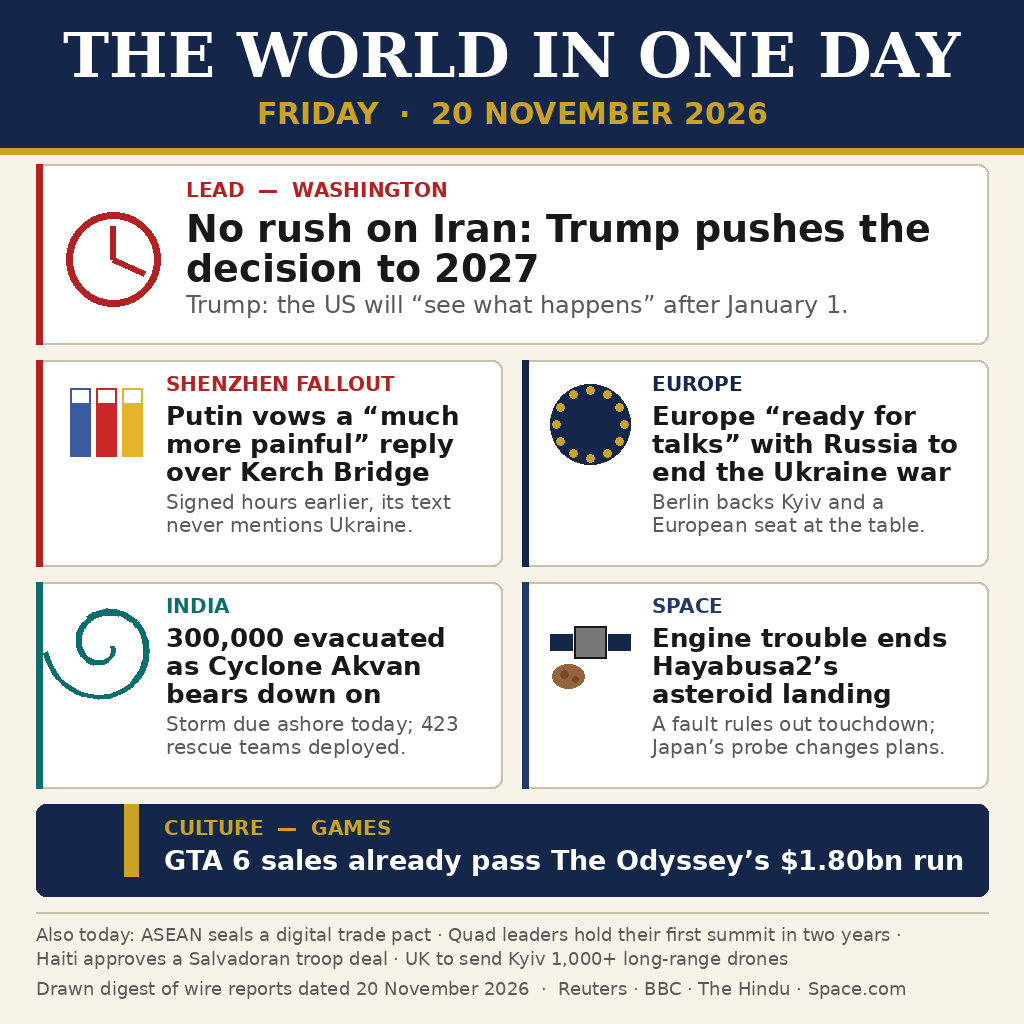
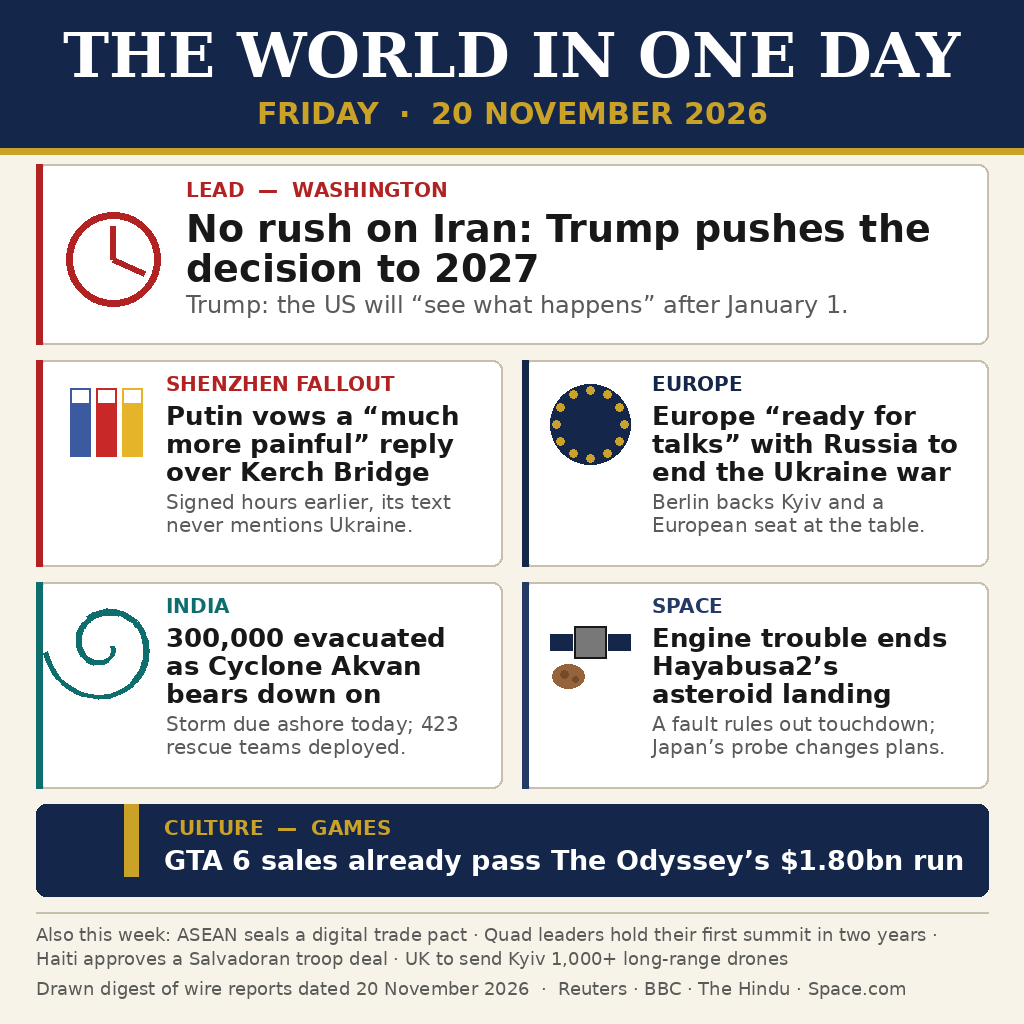
Fix footer wording and date claims after source checks
Footer items (ASEAN pact, Quad summit, Haiti deal) are from
14-17 Nov, so label them 'Also this week', not 'Also today'.
README: the six stories are the week's wires led by Friday's news,
not all first reported on the 20th.

Changed region(s): [[0.0938, 0.9062, 0.9062, 0.9375]]

diff --git a/README.md b/README.md
@@ -8,7 +8,7 @@ One image summing up Friday 20 November 2026 in world news: Trump putting the Ir
 
 ## What's in the picture
 
-A front page dated Friday 20 November 2026, six stories first reported that day:
+A front page dated Friday 20 November 2026, six stories from the week's wires, led by Friday's news:
 
 1. **Lead — Washington:** Trump says the US will "see what happens" on Iran after January 1; no rush on the decision while the Gulf build-up goes on.
 2. **Shenzhen fallout:** Putin vows a "much more painful" reply over the Kerch Bridge strikes, hours after signing a peace declaration with Trump and Xi that never mentions Ukraine.
